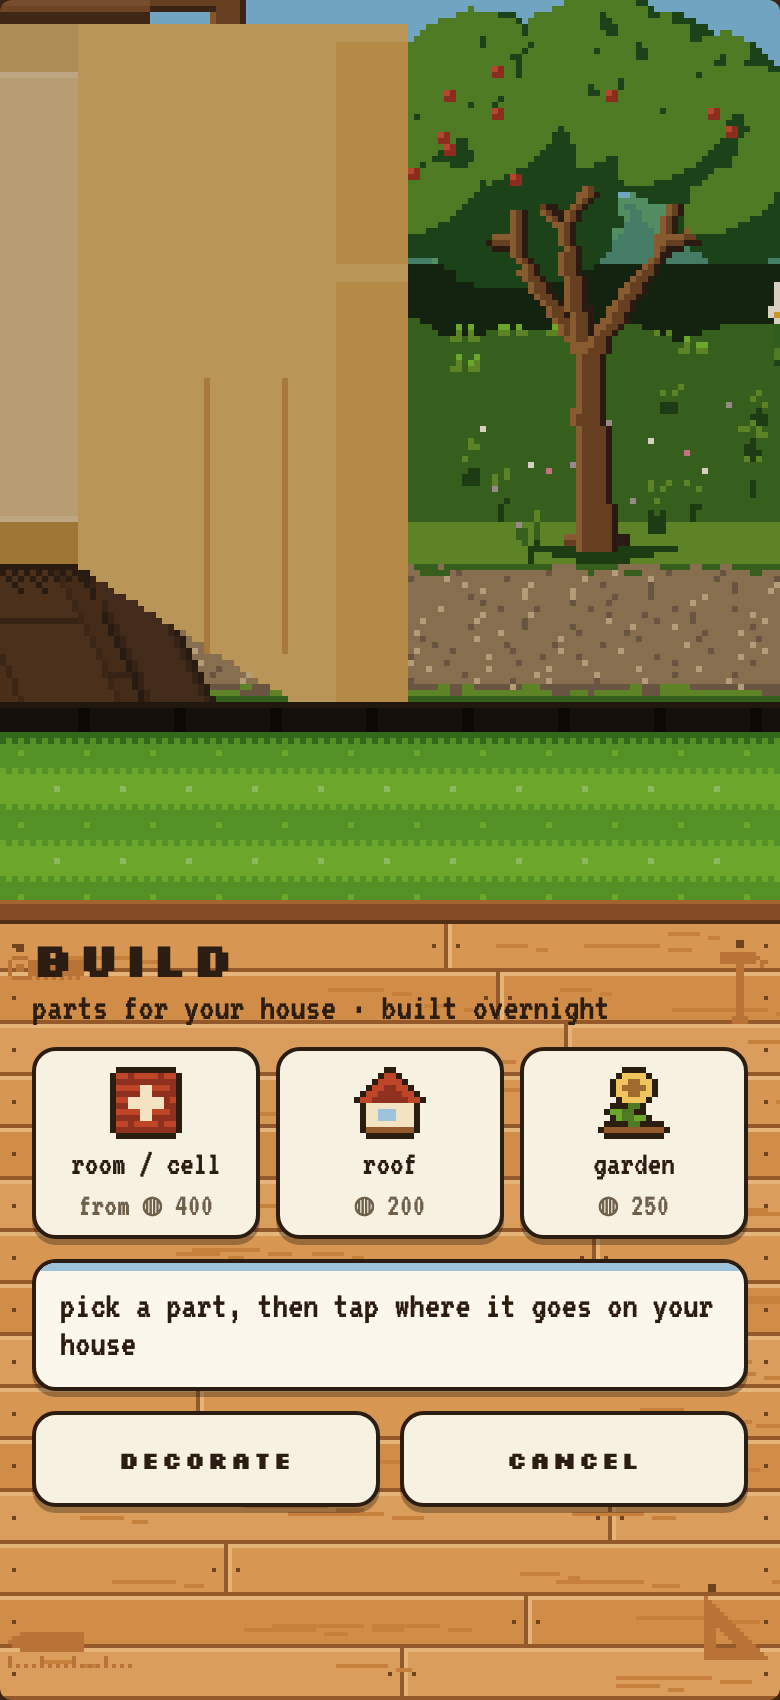
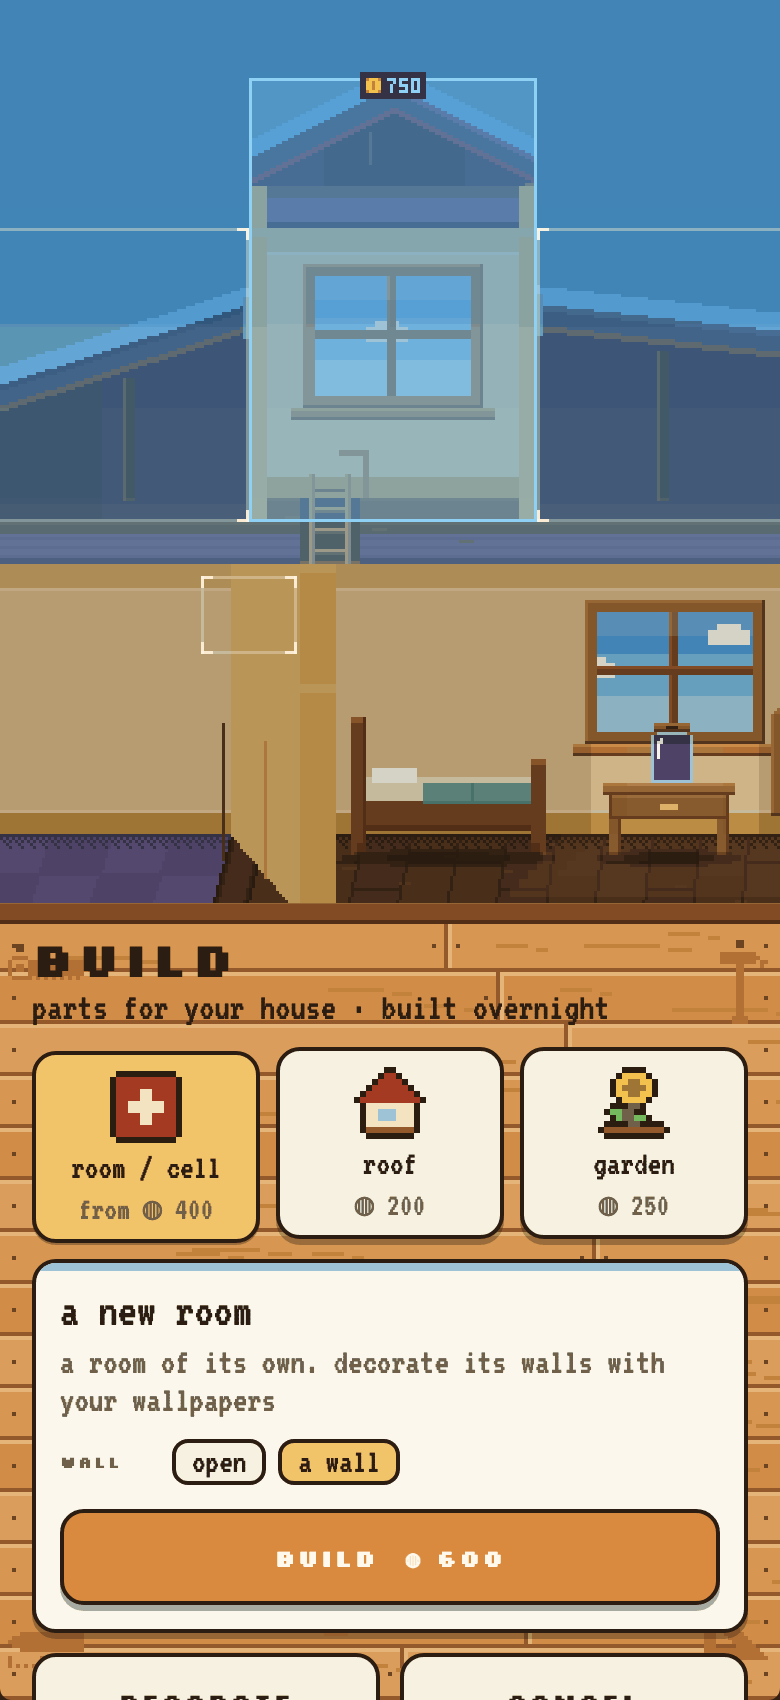
Tap Pixal and he reacts; a build shot with the house going up; a smooth fan; no recipe or sprout sections

diff --git a/home.css b/home.css
@@ -26,7 +26,7 @@ a { color: inherit; }
 #sky { position: fixed; inset: 0; width: 100vw; height: 100lvh; image-rendering: pixelated; z-index: -1; }
 
 /* A pixel border: hard steps, no radius. */
-.px-border, .frame, .company-card, .slide-pic, .strip figure, .badge, .carousel-nav button {
+.px-border, .frame, .company-card, .slide-pic, .badge, .carousel-nav button {
   box-shadow:
     0 calc(-1 * var(--px)) 0 0 currentColor, 0 var(--px) 0 0 currentColor,
     calc(-1 * var(--px)) 0 0 0 currentColor, var(--px) 0 0 0 currentColor;
@@ -92,14 +92,6 @@ h3 { font-family: Silkscreen, monospace; font-size: 16px; letter-spacing: 1px; m
 .card p { margin: 0; }
 .glyph { display: inline-grid; place-items: center; width: 44px; height: 44px; margin-bottom: 18px; background: var(--brown); color: var(--paper); font-size: 26px; }
 
-/* ---------- film strip ---------- */
-.strip-chapter { padding-bottom: 80px; }
-.note { margin: -18px 0 30px; color: var(--brown-soft); }
-.strip { display: grid; grid-auto-flow: column; grid-auto-columns: minmax(220px, 1fr); gap: 30px; overflow-x: auto; scroll-snap-type: x mandatory; padding: 8px 8px 22px; }
-.strip figure { margin: 0; scroll-snap-align: start; background: #fff8ec; color: var(--brown); padding: 12px 12px 10px; }
-.strip img { width: 100%; aspect-ratio: 9 / 16; object-fit: cover; image-rendering: pixelated; }
-.strip figcaption { font-family: Silkscreen, monospace; font-size: 11px; letter-spacing: 1px; margin-top: 10px; }
-
 /* ---------- company + footer ---------- */
 .company { background: var(--paper-deep); padding: 100px max(24px, 6vw); }
 .company-card { max-width: 820px; margin: 0 auto; background: #fff8ec; padding: 40px 44px; color: var(--brown); font-size: 23px; }
@@ -124,7 +116,6 @@ h3 { font-family: Silkscreen, monospace; font-size: 16px; letter-spacing: 1px; m
   .window { width: min(360px, 100%); min-width: 0; }
   .cols, .cards { grid-template-columns: 1fr; gap: 26px; }
   .chapter { padding: 80px 20px; }
-  .strip { grid-auto-columns: 70%; }
   .company { padding: 70px 16px; }
   .company-card { padding: 28px 22px; }
   .company-card dl { grid-template-columns: 1fr; gap: 2px; }
@@ -245,23 +236,29 @@ h3 { font-family: Silkscreen, monospace; font-size: 16px; letter-spacing: 1px; m
 .pal-screen { background: linear-gradient(#a6dcf0 0 18%, #b6e3ef 18% 30%, #cfe7e4 30% 44%, #f1e6cf 44% 70%, #f6d9bd 70%); }
 .pal-name { position: absolute; top: 11%; left: 0; right: 0; margin: 0; text-align: center; font: 700 28px Silkscreen, monospace; letter-spacing: 4px; color: #2a1f1a; }
 .pal-say { position: absolute; top: 18.5%; left: 0; right: 0; margin: 0; text-align: center; font: 12px Silkscreen, monospace; letter-spacing: 1px; color: #714c37; }
-.pal-stage { position: absolute; left: 8%; right: 8%; top: 41%; aspect-ratio: 240 / 200; }
+.pal-stage { position: absolute; left: 8%; right: 8%; top: 41%; aspect-ratio: 240 / 200; padding: 0; border: 0; background: none; cursor: pointer; -webkit-tap-highlight-color: transparent; }
+.pal-stage:focus-visible { outline: 3px dashed #714c37; outline-offset: 4px; }
+.pal-stage.hop img.on { animation: hop .7s steps(7); }
+@keyframes hop { 0% { transform: none; } 30% { transform: translateY(-22%) scaleY(1.04); } 55% { transform: translateY(-26%); } 80% { transform: translateY(0) scale(1.06, .94); } 100% { transform: none; } }
+.hearts { position: absolute; inset: 0; pointer-events: none; }
+.hearts i { position: absolute; top: 18%; font-style: normal; font: 700 18px Silkscreen, monospace; color: #e0525a; animation: float 1.1s steps(9) forwards; }
+@keyframes float { to { transform: translate(var(--dx), -90px); opacity: 0; } }
+.pal-tip { position: absolute; left: 0; right: 0; bottom: 6%; margin: 0; text-align: center; font: 10px Silkscreen, monospace; letter-spacing: 1px; color: #f1e6cf; opacity: .85; }
 .pal-ground { position: absolute; left: 0; right: 0; bottom: 0; height: 30%; background:
   repeating-linear-gradient(90deg, #6fae4f 0 12px, #79b957 12px 24px); box-shadow: inset 0 8px 0 #5c9a42; }
 
 /* ---------- a closer look: the screens fan out as they arrive ---------- */
 .fan { display: grid; grid-template-columns: repeat(4, 1fr); gap: 34px; align-items: start; perspective: 1200px; }
-.fan figure, .wide-shot { margin: 0; }
-.fan figcaption, .wide-shot figcaption { margin-top: 22px; font-size: 21px; line-height: 1.2; }
-.fan figcaption b, .wide-shot figcaption b { display: block; font: 700 12px Silkscreen, monospace; letter-spacing: 1px; margin-bottom: 6px; }
-.fan figure { transition: transform .8s steps(8), opacity .8s steps(8); }
+.fan figure { margin: 0; }
+.fan figcaption { margin-top: 22px; font-size: 21px; line-height: 1.2; }
+.fan figcaption b { display: block; font: 700 12px Silkscreen, monospace; letter-spacing: 1px; margin-bottom: 6px; }
+.fan figure { transition: transform .7s cubic-bezier(.2, .8, .2, 1), opacity .45s ease-out; will-change: transform, opacity; contain: layout paint; }
 .fan:not(.open) figure { opacity: 0; }
 .fan:not(.open) figure:nth-child(1) { transform: translateX(110%) rotate(-6deg); }
 .fan:not(.open) figure:nth-child(2) { transform: translateX(40%) rotate(-2deg); }
 .fan:not(.open) figure:nth-child(3) { transform: translateX(-40%) rotate(2deg); }
 .fan:not(.open) figure:nth-child(4) { transform: translateX(-110%) rotate(6deg); }
 .fan.open figure:nth-child(odd) { transform: translateY(18px); }
-.wide-shot { max-width: 760px; margin: 70px auto 0; }
 @media (max-width: 860px) {
   .fan { grid-template-columns: none; grid-auto-flow: column; grid-auto-columns: 62vw; overflow-x: auto; scroll-snap-type: x mandatory; padding: 8px 20px 20px; margin: 0 -20px; }
   .fan figure { scroll-snap-align: center; opacity: 1 !important; transform: none !important; }

diff --git a/index.html b/index.html
@@ -63,13 +63,15 @@
             <div class="status" aria-hidden="true"><span class="phone-time">9:41</span><span class="island"></span><span class="bars">▮▮▮</span></div>
             <p class="pal-name">PIXAL</p>
             <p class="pal-say" aria-live="polite">pottering about</p>
-            <div class="pal-stage">
+            <button type="button" class="pal-stage" aria-label="Tap Pixal">
               <img src="/media/pixal-idle.png" alt="" class="on" data-say="pottering about">
               <img src="/media/pixal-wave.png" alt="" data-say="saying hello">
               <img src="/media/pixal-read.png" alt="" data-say="reading a good book">
               <img src="/media/pixal-drink.png" alt="" data-say="having a cuppa">
               <img src="/media/pixal-jump.png" alt="" data-say="delighted about something">
-            </div>
+              <span class="hearts" aria-hidden="true"></span>
+            </button>
+            <p class="pal-tip">tap him</p>
             <div class="pal-ground" aria-hidden="true"></div>
           </div>
         </div>
@@ -149,25 +151,13 @@
       <p class="eyebrow">04 · A closer look</p>
       <h2>His life, on your phone.</h2>
       <div class="fan">
-        <figure><div class="device"><img class="screen" src="/media/ui-hobbies.png" alt="The Hobbies screen: painting, cooking, music and reading, each with its own level" width="780" height="1688" loading="lazy"></div><figcaption><b>Hobbies</b> Six of them, practised on his own and levelling up.</figcaption></figure>
-        <figure><div class="device"><img class="screen" src="/media/ui-quests.png" alt="The Quests screen: a little menu, his first gallery, familiar stars and the Japanese lounge, with progress" width="780" height="1688" loading="lazy"></div><figcaption><b>Quests</b> What’s on his mind, and what you’ve finished together.</figcaption></figure>
-        <figure><div class="device"><img class="screen" src="/media/ui-hint.png" alt="A quest's help page: what to do next, what counts, and the sailor hat he'll be given" width="780" height="1688" loading="lazy"></div><figcaption><b>A little help</b> A hint from what you actually have, and the gift waiting at the end.</figcaption></figure>
-        <figure><div class="device"><img class="screen" src="/media/ui-build.png" alt="Build mode: the workshop under the house, with a room, a roof and a garden to add" width="780" height="1700" loading="lazy"></div><figcaption><b>Build</b> Add rooms, a roof, a garden — the builders come overnight.</figcaption></figure>
+        <figure><div class="device"><img class="screen" src="/media/ui-hobbies.png" alt="The Hobbies screen: painting, cooking, music and reading, each with its own level" width="780" height="1688"></div><figcaption><b>Hobbies</b> Six of them, practised on his own and levelling up.</figcaption></figure>
+        <figure><div class="device"><img class="screen" src="/media/ui-quests.png" alt="The Quests screen: a little menu, his first gallery, familiar stars and the Japanese lounge, with progress" width="780" height="1688"></div><figcaption><b>Quests</b> What’s on his mind, and what you’ve finished together.</figcaption></figure>
+        <figure><div class="device"><img class="screen" src="/media/ui-hint.png" alt="A quest's help page: what to do next, what counts, and the sailor hat he'll be given" width="780" height="1688"></div><figcaption><b>A little help</b> A hint from what you actually have, and the gift waiting at the end.</figcaption></figure>
+        <figure><div class="device"><img class="screen" src="/media/ui-build.png" alt="Build mode: a new room going up on the roof, priced at 750 coins, above the build sheet" width="780" height="1700"></div><figcaption><b>Build</b> Pick a spot on the house — a room upstairs, a new roof, a garden — and the builders come overnight.</figcaption></figure>
       </div>
-      <figure class="wide-shot"><div class="device sideways"><img class="screen" src="/media/ui-recipes.png" alt="The recipe book on its side: a taste chart of known dishes beside his cravings" width="1948" height="916" loading="lazy"></div><figcaption><b>The recipe book, sideways</b> Every dish he’s recognised, plotted on a taste chart — and the cravings he hasn’t named yet.</figcaption></figure>
     </section>
 
-    <section class="chapter strip-chapter">
-      <p class="eyebrow">05 · Where he comes from</p>
-      <h2>Every Pixal starts as a sprout.</h2>
-      <p class="note">Keyframes from the opening cinematic, in development.</p>
-      <div class="strip" tabindex="0" aria-label="Opening cinematic keyframes">
-        <figure><img src="/media/birth-sprout.jpg" alt="A sprout sways in a patch of earth at dawn" loading="lazy"><figcaption>A sprout at dawn</figcaption></figure>
-        <figure><img src="/media/birth-choosing.jpg" alt="Four sprouts — a shoot, a bud, a flower and a curl — in a row of mounds" loading="lazy"><figcaption>You choose yours</figcaption></figure>
-        <figure><img src="/media/birth-pull.jpg" alt="The chosen sprout being pulled from the ground" loading="lazy"><figcaption>A tug</figcaption></figure>
-        <figure><img src="/media/birth-handoff.jpg" alt="Pixal stands in a soft spotlight in the clearing" loading="lazy"><figcaption>And there he is</figcaption></figure>
-      </div>
-    </section>
 
     <section class="company" id="company">
       <div class="company-card">

diff --git a/home.js b/home.js
@@ -202,11 +202,23 @@
 
   // ---------- meet Pixal: he cycles through what he gets up to ----------
   const poses = [...document.querySelectorAll('.pal-stage img')], say = document.querySelector('.pal-say');
-  let pose = 0;
-  if (!reduced) setInterval(() => {
-    poses[pose].classList.remove('on'); pose = (pose + 1) % poses.length; poses[pose].classList.add('on');
-    say.textContent = poses[pose].dataset.say;
-  }, 1800);
+  let pose = 0, heldUntil = 0;
+  const show = (k, words) => { poses[pose].classList.remove('on'); pose = k; poses[pose].classList.add('on'); say.textContent = words ?? poses[pose].dataset.say; };
+  if (!reduced) setInterval(() => { if (Date.now() > heldUntil) show((pose + 1) % poses.length); }, 1800);
+  // Tap him and he reacts: a hop, a few hearts, something to say.
+  const stage = document.querySelector('.pal-stage'), hearts = stage.querySelector('.hearts');
+  const LINES = ['hello!', 'that tickles!', 'oh! hi!', 'again! again!', 'hehe', 'you found me', 'i was just thinking about lunch'];
+  let line = 0;
+  stage.addEventListener('click', () => {
+    heldUntil = Date.now() + 2600;
+    show(poses.length - 1, LINES[line++ % LINES.length]);
+    stage.classList.remove('hop'); void stage.offsetWidth; stage.classList.add('hop');
+    if (!reduced) for (let k = 0; k < 4; k++) {
+      const h = document.createElement('i'); h.textContent = '♥';
+      h.style.left = `${30 + Math.random() * 40}%`; h.style.setProperty('--dx', `${(Math.random() - 0.5) * 60}px`); h.style.animationDelay = `${k * 0.08}s`;
+      hearts.appendChild(h); setTimeout(() => h.remove(), 1500);
+    }
+  });
 
   // ---------- things you do together: the carousel ----------
   const carousel = document.querySelector('.carousel'), slides = [...carousel.querySelectorAll('.slide')];
@@ -237,14 +249,20 @@
   }, 1700);
 
   // ---------- the screens fan out when they arrive ----------
+  // The screens are decoded before they move, so the fan never stalls on a half-loaded picture.
   const fan = document.querySelector('.fan');
-  new IntersectionObserver(([e], o) => { if (e.isIntersecting) { fan.classList.add('open'); o.disconnect(); } }, { rootMargin: '0px 0px -25% 0px' }).observe(fan);
+  const screensReady = Promise.all([...fan.querySelectorAll('img')].map((img) => img.decode().catch(() => {})));
+  new IntersectionObserver(([e], o) => {
+    if (!e.isIntersecting) return;
+    o.disconnect();
+    screensReady.then(() => requestAnimationFrame(() => fan.classList.add('open')));
+  }, { rootMargin: '0px 0px -20% 0px' }).observe(fan);
 
   // ---------- chapters ease in as they arrive ----------
   const reveal = new IntersectionObserver((entries) => {
     for (const e of entries) if (e.isIntersecting) { e.target.classList.add('in'); reveal.unobserve(e.target); }
   }, { rootMargin: '0px 0px -10% 0px' });
-  document.querySelectorAll('.chapter:not(.screens) > *, .screens > .eyebrow, .screens > h2, .wide-shot, .company-card, .strip figure').forEach((el) => { el.classList.add('reveal'); reveal.observe(el); });
+  document.querySelectorAll('.chapter:not(.screens) > *, .screens > .eyebrow, .screens > h2, .company-card').forEach((el) => { el.classList.add('reveal'); reveal.observe(el); });
 
   addEventListener('resize', () => { resize(); furnish(); });
   setDial(); resize(); showLoops(); describe(); lightHouse(); onScroll();
